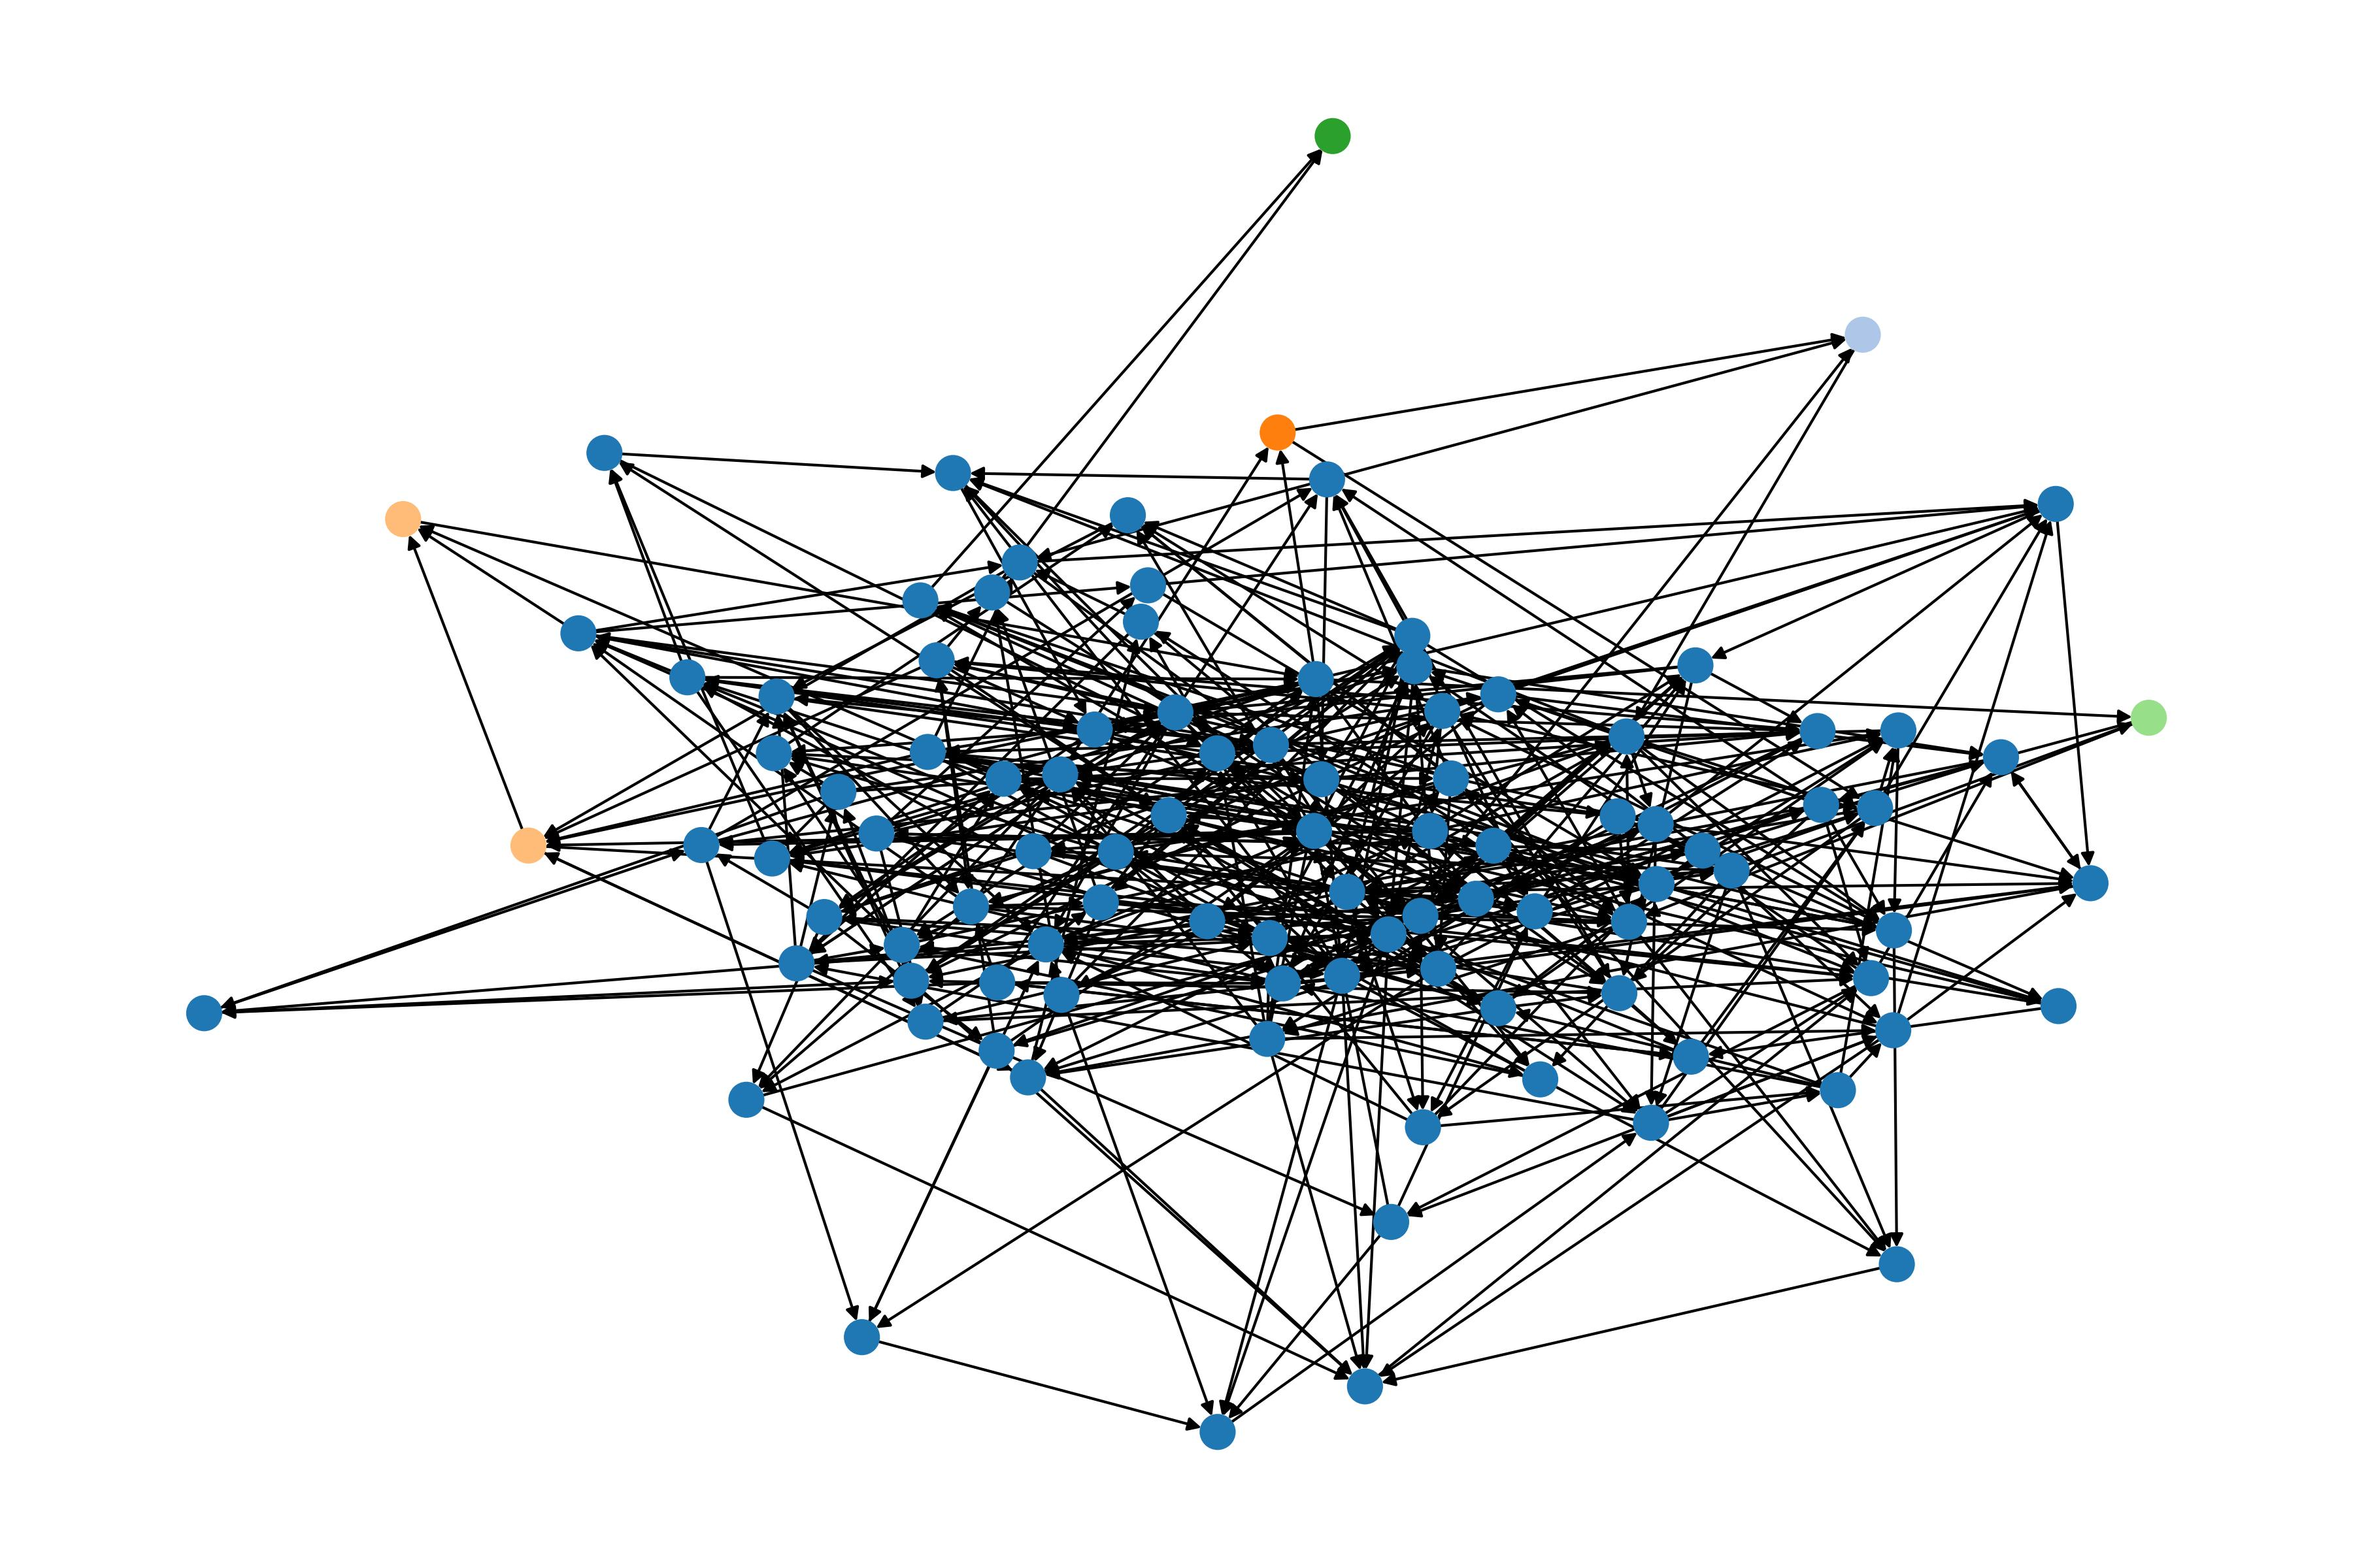
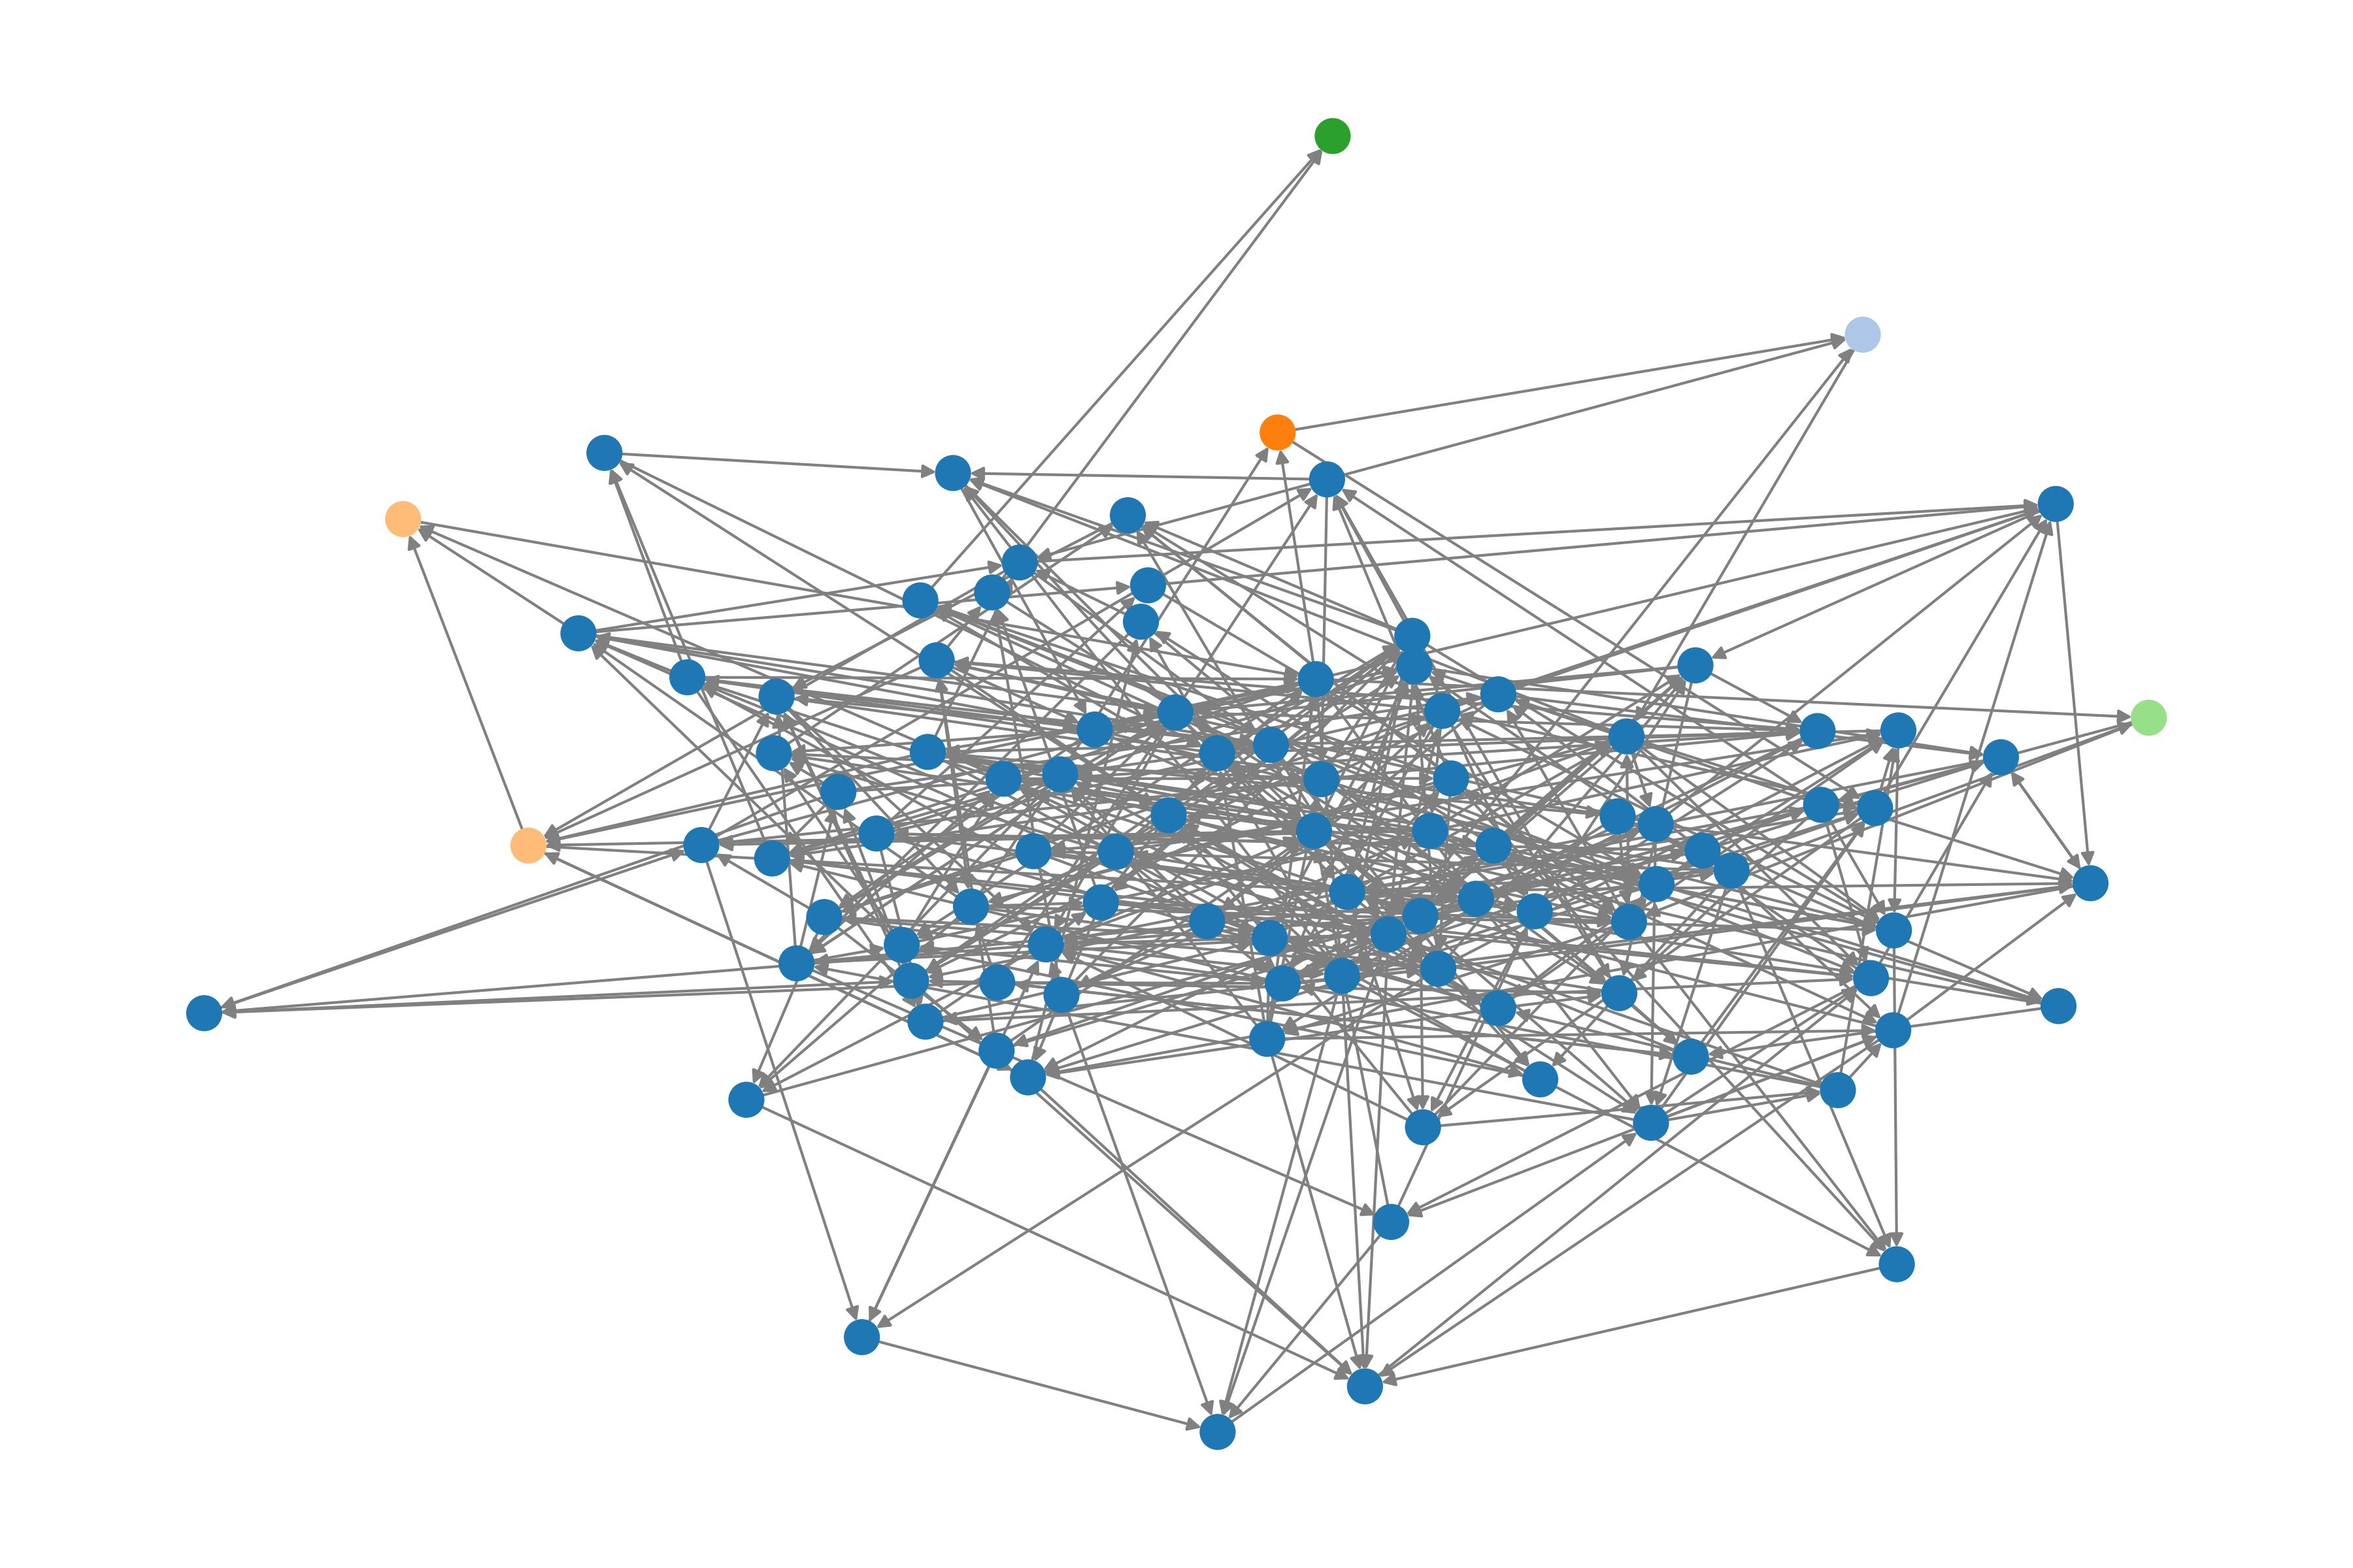
design changes for community detection

diff --git a/CommunityDetection/CommunityDetection_Walktrap_Girvan_Louvain.py b/CommunityDetection/CommunityDetection_Walktrap_Girvan_Louvain.py
@@ -119,9 +119,8 @@ def visualize_communities(G, communities, title, filename):
         pos=pos,
         node_size=150,
         node_color=node_colors,
+        edge_color="grey",
         with_labels=False,
-        font_size=14,
-        font_color="black",
         alpha=1.0,
     )
     plt.title(title)
@@ -136,10 +135,9 @@ def visualize_graph(G, title, filename):
         G,
         pos=pos,
         node_size=150,
-        node_color="grey",
+        node_color="darkblue",
         with_labels=False,
-        font_size=14,
-        font_color="black",
+        edge_color="grey",
         alpha=1.0,
     )
     plt.title(title)
